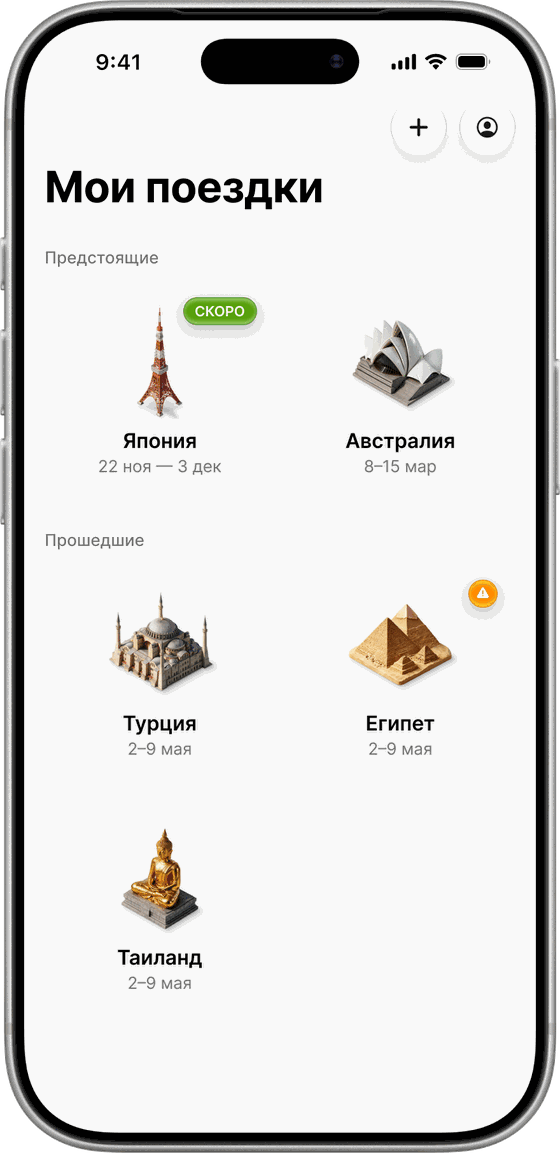
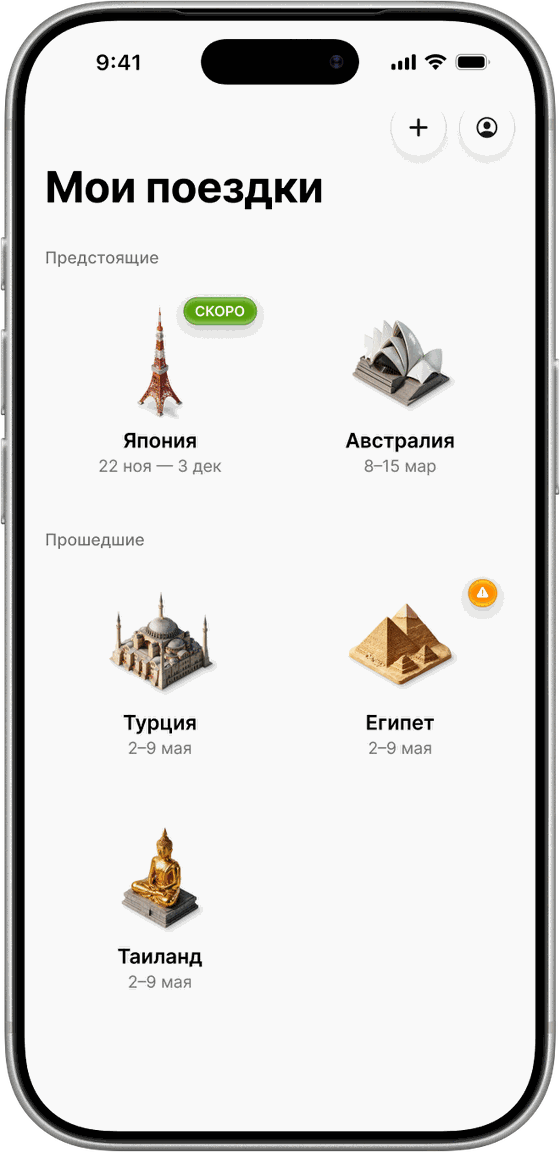
превью и обложка: макеты от Аделины
Три присланных макета заменили выгрузку из Figma: превью 661×1360,
обложка 560×1152, обе сжаты палитрой.

Claude-Session: https://claude.ai/code/session_01StpxptfvpjwGYmo7tgMf6k

diff --git a/payment-split.html b/payment-split.html
@@ -73,12 +73,12 @@
 <link rel="preload" as="font" type="font/woff2" crossorigin href="vendor/fonts/UcC73FwrK3iLTeHuS_nVMrMxCp50SjIa0ZL7W0Q5n-wU.woff2">
 <link rel="preload" as="font" type="font/woff2" crossorigin href="vendor/fonts/UcC73FwrK3iLTeHuS_nVMrMxCp50SjIa2JL7W0Q5n-wU.woff2">
 <link rel="stylesheet" href="vendor/inter.css">
-<link rel="stylesheet" href="base.css?v=202611141736">
-<link rel="stylesheet" href="article.css?v=202611141736">
+<link rel="stylesheet" href="base.css?v=202611141740">
+<link rel="stylesheet" href="article.css?v=202611141740">
 <!-- The SVG-only build: these files carry no expressions, images or text layers. -->
 <script src="vendor/lottie_light.min.js" defer></script>
-<script src="shared.js?v=202611141736" defer></script>
-<script src="page-payment-split.js?v=202611141736" defer></script>
+<script src="shared.js?v=202611141740" defer></script>
+<script src="page-payment-split.js?v=202611141740" defer></script>
 
 <!-- Vercel Web Analytics. Served from this domain, not from anyone else's:
      the site still makes no third-party requests. -->

diff --git a/activities.html b/activities.html
@@ -72,12 +72,12 @@
 <link rel="preload" as="font" type="font/woff2" crossorigin href="vendor/fonts/UcC73FwrK3iLTeHuS_nVMrMxCp50SjIa0ZL7W0Q5n-wU.woff2">
 <link rel="preload" as="font" type="font/woff2" crossorigin href="vendor/fonts/UcC73FwrK3iLTeHuS_nVMrMxCp50SjIa2JL7W0Q5n-wU.woff2">
 <link rel="stylesheet" href="vendor/inter.css">
-<link rel="stylesheet" href="base.css?v=202611141736">
-<link rel="stylesheet" href="article.css?v=202611141736">
+<link rel="stylesheet" href="base.css?v=202611141740">
+<link rel="stylesheet" href="article.css?v=202611141740">
 <!-- The SVG-only build: these files carry no expressions, images or text layers. -->
 <script src="vendor/lottie_light.min.js" defer></script>
-<script src="shared.js?v=202611141736" defer></script>
-<script src="page-activities.js?v=202611141736" defer></script>
+<script src="shared.js?v=202611141740" defer></script>
+<script src="page-activities.js?v=202611141740" defer></script>
 
 <!-- Vercel Web Analytics. Served from this domain, not from anyone else's:
      the site still makes no third-party requests. -->

diff --git a/contentlog.html b/contentlog.html
@@ -73,12 +73,12 @@
 <link rel="preload" as="font" type="font/woff2" crossorigin href="vendor/fonts/UcC73FwrK3iLTeHuS_nVMrMxCp50SjIa0ZL7W0Q5n-wU.woff2">
 <link rel="preload" as="font" type="font/woff2" crossorigin href="vendor/fonts/UcC73FwrK3iLTeHuS_nVMrMxCp50SjIa2JL7W0Q5n-wU.woff2">
 <link rel="stylesheet" href="vendor/inter.css">
-<link rel="stylesheet" href="base.css?v=202611141736">
-<link rel="stylesheet" href="article.css?v=202611141736">
+<link rel="stylesheet" href="base.css?v=202611141740">
+<link rel="stylesheet" href="article.css?v=202611141740">
 <!-- The SVG-only build: these files carry no expressions, images or text layers. -->
 <script src="vendor/lottie_light.min.js" defer></script>
-<script src="shared.js?v=202611141736" defer></script>
-<script src="page-contentlog.js?v=202611141736" defer></script>
+<script src="shared.js?v=202611141740" defer></script>
+<script src="page-contentlog.js?v=202611141740" defer></script>
 
 <!-- Vercel Web Analytics. Served from this domain, not from anyone else's:
      the site still makes no third-party requests. -->

diff --git a/desk-setup.html b/desk-setup.html
@@ -73,12 +73,12 @@
 <link rel="preload" as="font" type="font/woff2" crossorigin href="vendor/fonts/UcC73FwrK3iLTeHuS_nVMrMxCp50SjIa0ZL7W0Q5n-wU.woff2">
 <link rel="preload" as="font" type="font/woff2" crossorigin href="vendor/fonts/UcC73FwrK3iLTeHuS_nVMrMxCp50SjIa2JL7W0Q5n-wU.woff2">
 <link rel="stylesheet" href="vendor/inter.css">
-<link rel="stylesheet" href="base.css?v=202611141736">
-<link rel="stylesheet" href="article.css?v=202611141736">
+<link rel="stylesheet" href="base.css?v=202611141740">
+<link rel="stylesheet" href="article.css?v=202611141740">
 <!-- The SVG-only build: these files carry no expressions, images or text layers. -->
 <script src="vendor/lottie_light.min.js" defer></script>
-<script src="shared.js?v=202611141736" defer></script>
-<script src="page-desk-setup.js?v=202611141736" defer></script>
+<script src="shared.js?v=202611141740" defer></script>
+<script src="page-desk-setup.js?v=202611141740" defer></script>
 
 <!-- Vercel Web Analytics. Served from this domain, not from anyone else's:
      the site still makes no third-party requests. -->

diff --git a/animation-challenge.html b/animation-challenge.html
@@ -73,12 +73,12 @@
 <link rel="preload" as="font" type="font/woff2" crossorigin href="vendor/fonts/UcC73FwrK3iLTeHuS_nVMrMxCp50SjIa0ZL7W0Q5n-wU.woff2">
 <link rel="preload" as="font" type="font/woff2" crossorigin href="vendor/fonts/UcC73FwrK3iLTeHuS_nVMrMxCp50SjIa2JL7W0Q5n-wU.woff2">
 <link rel="stylesheet" href="vendor/inter.css">
-<link rel="stylesheet" href="base.css?v=202611141736">
-<link rel="stylesheet" href="article.css?v=202611141736">
+<link rel="stylesheet" href="base.css?v=202611141740">
+<link rel="stylesheet" href="article.css?v=202611141740">
 <!-- The SVG-only build: these files carry no expressions, images or text layers. -->
 <script src="vendor/lottie_light.min.js" defer></script>
-<script src="shared.js?v=202611141736" defer></script>
-<script src="page-animation.js?v=202611141736" defer></script>
+<script src="shared.js?v=202611141740" defer></script>
+<script src="page-animation.js?v=202611141740" defer></script>
 
 <!-- Vercel Web Analytics. Served from this domain, not from anyone else's:
      the site still makes no third-party requests. -->

diff --git a/easygoing.html b/easygoing.html
@@ -73,12 +73,12 @@
 <link rel="preload" as="font" type="font/woff2" crossorigin href="vendor/fonts/UcC73FwrK3iLTeHuS_nVMrMxCp50SjIa0ZL7W0Q5n-wU.woff2">
 <link rel="preload" as="font" type="font/woff2" crossorigin href="vendor/fonts/UcC73FwrK3iLTeHuS_nVMrMxCp50SjIa2JL7W0Q5n-wU.woff2">
 <link rel="stylesheet" href="vendor/inter.css">
-<link rel="stylesheet" href="base.css?v=202611141736">
-<link rel="stylesheet" href="article.css?v=202611141736">
+<link rel="stylesheet" href="base.css?v=202611141740">
+<link rel="stylesheet" href="article.css?v=202611141740">
 <!-- The SVG-only build: these files carry no expressions, images or text layers. -->
 <script src="vendor/lottie_light.min.js" defer></script>
-<script src="shared.js?v=202611141736" defer></script>
-<script src="page-easygoing.js?v=202611141736" defer></script>
+<script src="shared.js?v=202611141740" defer></script>
+<script src="page-easygoing.js?v=202611141740" defer></script>
 
 <!-- Vercel Web Analytics. Served from this domain, not from anyone else's:
      the site still makes no third-party requests. -->

diff --git a/airtrip.html b/airtrip.html
@@ -73,12 +73,12 @@
 <link rel="preload" as="font" type="font/woff2" crossorigin href="vendor/fonts/UcC73FwrK3iLTeHuS_nVMrMxCp50SjIa0ZL7W0Q5n-wU.woff2">
 <link rel="preload" as="font" type="font/woff2" crossorigin href="vendor/fonts/UcC73FwrK3iLTeHuS_nVMrMxCp50SjIa2JL7W0Q5n-wU.woff2">
 <link rel="stylesheet" href="vendor/inter.css">
-<link rel="stylesheet" href="base.css?v=202611141736">
-<link rel="stylesheet" href="article.css?v=202611141736">
+<link rel="stylesheet" href="base.css?v=202611141740">
+<link rel="stylesheet" href="article.css?v=202611141740">
 <!-- The SVG-only build: these files carry no expressions, images or text layers. -->
 <script src="vendor/lottie_light.min.js" defer></script>
-<script src="shared.js?v=202611141736" defer></script>
-<script src="page-airtrip.js?v=202611141736" defer></script>
+<script src="shared.js?v=202611141740" defer></script>
+<script src="page-airtrip.js?v=202611141740" defer></script>
 
 <!-- Vercel Web Analytics. Served from this domain, not from anyone else's:
      the site still makes no third-party requests. -->

diff --git a/cards.html b/cards.html
@@ -73,12 +73,12 @@
 <link rel="preload" as="font" type="font/woff2" crossorigin href="vendor/fonts/UcC73FwrK3iLTeHuS_nVMrMxCp50SjIa0ZL7W0Q5n-wU.woff2">
 <link rel="preload" as="font" type="font/woff2" crossorigin href="vendor/fonts/UcC73FwrK3iLTeHuS_nVMrMxCp50SjIa2JL7W0Q5n-wU.woff2">
 <link rel="stylesheet" href="vendor/inter.css">
-<link rel="stylesheet" href="base.css?v=202611141736">
-<link rel="stylesheet" href="article.css?v=202611141736">
+<link rel="stylesheet" href="base.css?v=202611141740">
+<link rel="stylesheet" href="article.css?v=202611141740">
 <!-- The SVG-only build: these files carry no expressions, images or text layers. -->
 <script src="vendor/lottie_light.min.js" defer></script>
-<script src="shared.js?v=202611141736" defer></script>
-<script src="page-cards.js?v=202611141736" defer></script>
+<script src="shared.js?v=202611141740" defer></script>
+<script src="page-cards.js?v=202611141740" defer></script>
 
 <!-- Vercel Web Analytics. Served from this domain, not from anyone else's:
      the site still makes no third-party requests. -->

diff --git a/city-identity.html b/city-identity.html
@@ -73,12 +73,12 @@
 <link rel="preload" as="font" type="font/woff2" crossorigin href="vendor/fonts/UcC73FwrK3iLTeHuS_nVMrMxCp50SjIa0ZL7W0Q5n-wU.woff2">
 <link rel="preload" as="font" type="font/woff2" crossorigin href="vendor/fonts/UcC73FwrK3iLTeHuS_nVMrMxCp50SjIa2JL7W0Q5n-wU.woff2">
 <link rel="stylesheet" href="vendor/inter.css">
-<link rel="stylesheet" href="base.css?v=202611141736">
-<link rel="stylesheet" href="article.css?v=202611141736">
+<link rel="stylesheet" href="base.css?v=202611141740">
+<link rel="stylesheet" href="article.css?v=202611141740">
 <!-- The SVG-only build: these files carry no expressions, images or text layers. -->
 <script src="vendor/lottie_light.min.js" defer></script>
-<script src="shared.js?v=202611141736" defer></script>
-<script src="page-city.js?v=202611141736" defer></script>
+<script src="shared.js?v=202611141740" defer></script>
+<script src="page-city.js?v=202611141740" defer></script>
 
 <!-- Vercel Web Analytics. Served from this domain, not from anyone else's:
      the site still makes no third-party requests. -->

diff --git a/mujo.html b/mujo.html
@@ -73,12 +73,12 @@
 <link rel="preload" as="font" type="font/woff2" crossorigin href="vendor/fonts/UcC73FwrK3iLTeHuS_nVMrMxCp50SjIa0ZL7W0Q5n-wU.woff2">
 <link rel="preload" as="font" type="font/woff2" crossorigin href="vendor/fonts/UcC73FwrK3iLTeHuS_nVMrMxCp50SjIa2JL7W0Q5n-wU.woff2">
 <link rel="stylesheet" href="vendor/inter.css">
-<link rel="stylesheet" href="base.css?v=202611141736">
-<link rel="stylesheet" href="article.css?v=202611141736">
+<link rel="stylesheet" href="base.css?v=202611141740">
+<link rel="stylesheet" href="article.css?v=202611141740">
 <!-- The SVG-only build: these files carry no expressions, images or text layers. -->
 <script src="vendor/lottie_light.min.js" defer></script>
-<script src="shared.js?v=202611141736" defer></script>
-<script src="page-mujo.js?v=202611141736" defer></script>
+<script src="shared.js?v=202611141740" defer></script>
+<script src="page-mujo.js?v=202611141740" defer></script>
 
 <!-- Vercel Web Analytics. Served from this domain, not from anyone else's:
      the site still makes no third-party requests. -->

diff --git a/wb.html b/wb.html
@@ -73,12 +73,12 @@
 <link rel="preload" as="font" type="font/woff2" crossorigin href="vendor/fonts/UcC73FwrK3iLTeHuS_nVMrMxCp50SjIa0ZL7W0Q5n-wU.woff2">
 <link rel="preload" as="font" type="font/woff2" crossorigin href="vendor/fonts/UcC73FwrK3iLTeHuS_nVMrMxCp50SjIa2JL7W0Q5n-wU.woff2">
 <link rel="stylesheet" href="vendor/inter.css">
-<link rel="stylesheet" href="base.css?v=202611141736">
-<link rel="stylesheet" href="article.css?v=202611141736">
+<link rel="stylesheet" href="base.css?v=202611141740">
+<link rel="stylesheet" href="article.css?v=202611141740">
 <!-- The SVG-only build: these files carry no expressions, images or text layers. -->
 <script src="vendor/lottie_light.min.js" defer></script>
-<script src="shared.js?v=202611141736" defer></script>
-<script src="page-wb.js?v=202611141736" defer></script>
+<script src="shared.js?v=202611141740" defer></script>
+<script src="page-wb.js?v=202611141740" defer></script>
 
 <!-- Vercel Web Analytics. Served from this domain, not from anyone else's:
      the site still makes no third-party requests. -->

diff --git a/index.html b/index.html
@@ -72,12 +72,12 @@
 <link rel="preload" as="font" type="font/woff2" crossorigin href="vendor/fonts/UcC73FwrK3iLTeHuS_nVMrMxCp50SjIa0ZL7W0Q5n-wU.woff2">
 <link rel="preload" as="font" type="font/woff2" crossorigin href="vendor/fonts/UcC73FwrK3iLTeHuS_nVMrMxCp50SjIa2JL7W0Q5n-wU.woff2">
 <link rel="stylesheet" href="vendor/inter.css">
-<link rel="stylesheet" href="base.css?v=202611141736">
-<link rel="stylesheet" href="home.css?v=202611141736">
+<link rel="stylesheet" href="base.css?v=202611141740">
+<link rel="stylesheet" href="home.css?v=202611141740">
 <!-- The SVG-only build: these files carry no expressions, images or text layers. -->
 <script src="vendor/lottie_light.min.js" defer></script>
-<script src="shared.js?v=202611141736" defer></script>
-<script src="home.js?v=202611141736" defer></script>
+<script src="shared.js?v=202611141740" defer></script>
+<script src="home.js?v=202611141740" defer></script>
 
 <!-- Vercel Web Analytics. Served from this domain, not from anyone else's:
      the site still makes no third-party requests. -->
